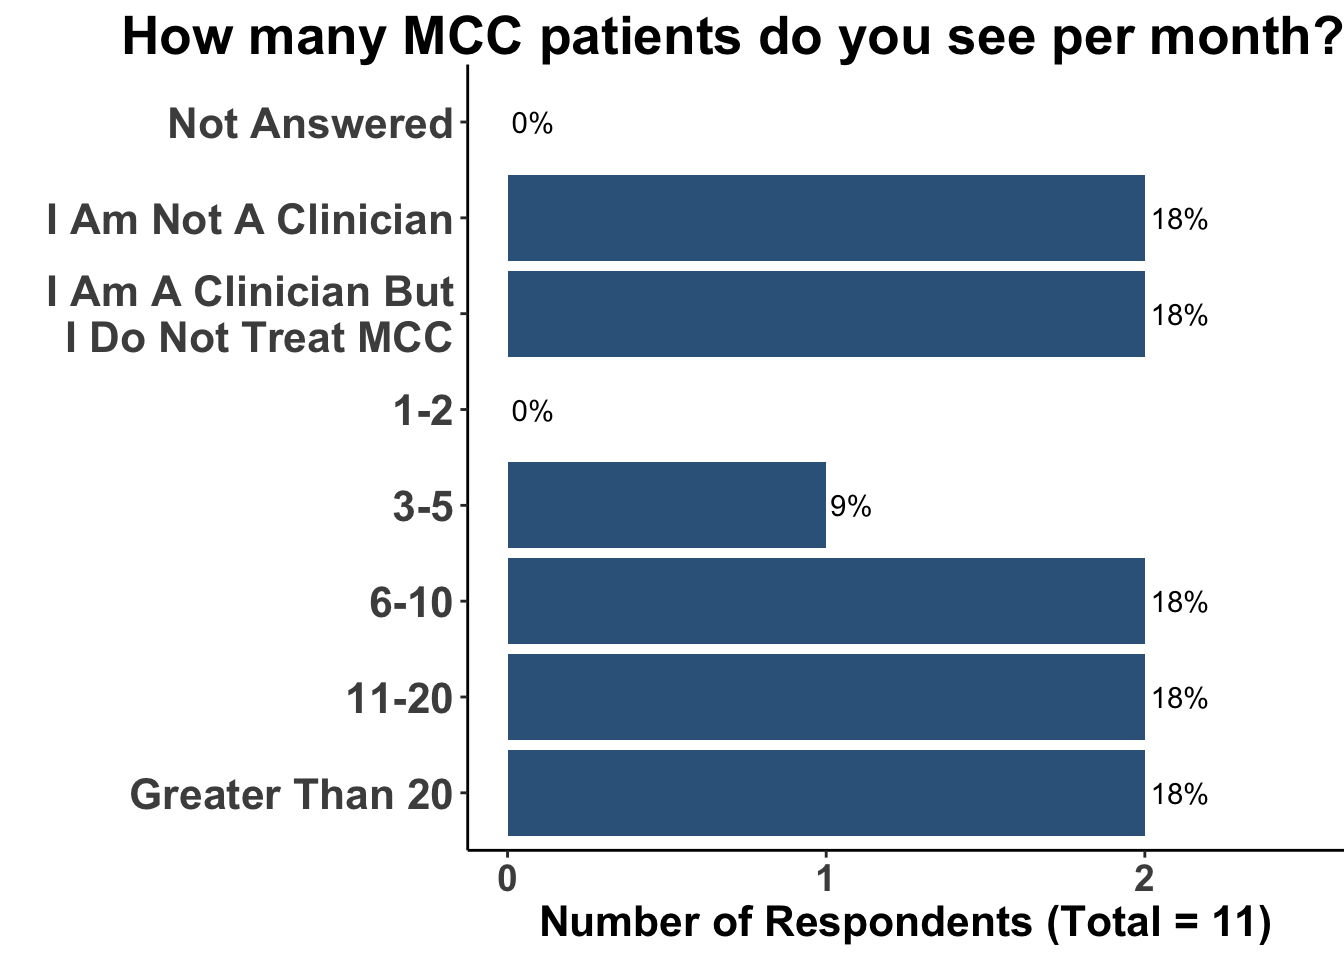
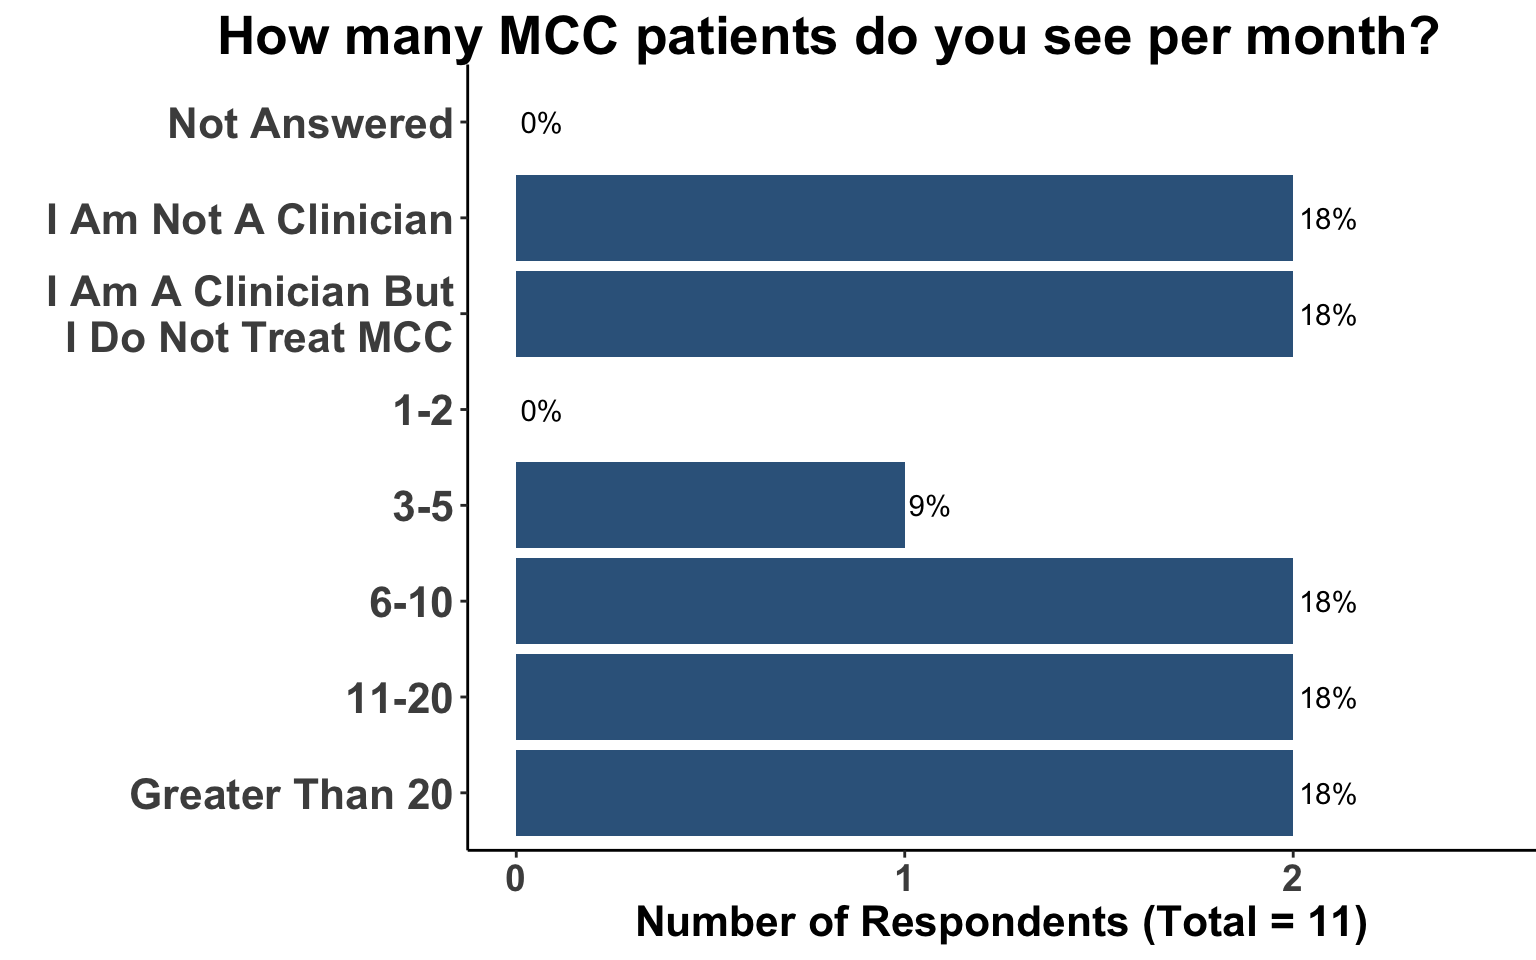
mcc experience next fix

diff --git a/docs/SoCO_Survey.html b/docs/SoCO_Survey.html
@@ -393,7 +393,7 @@ No matching items
 <div class="fade-in">
 <div id="listing-experience" class="quarto-listing quarto-listing-container-default">
 <div class="list quarto-listing-default">
-<div class="quarto-post image-right" data-index="0" data-listing-file-modified-sort="1744021653800" data-listing-reading-time-sort="1" data-listing-word-count-sort="47">
+<div class="quarto-post image-right" data-index="0" data-listing-file-modified-sort="1744022301976" data-listing-reading-time-sort="1" data-listing-word-count-sort="51">
 <div class="thumbnail">
 <p><a href="./pre_jc_survey/experience/index.html" class="no-external"></a></p><a href="./pre_jc_survey/experience/index.html" class="no-external">
 <p class="card-img-top"><img src="pre_jc_survey/experience/index_files/figure-html/patient experience-1.png"  class="thumbnail-image card-img"/></p>
@@ -401,7 +401,7 @@ No matching items
 </div>
 <div class="body">
 <h3 class="no-anchor listing-title">
-<a href="./pre_jc_survey/experience/index.html" class="no-external">Experience</a>
+<a href="./pre_jc_survey/experience/index.html" class="no-external">Experience With Merkel Cell Carcinoma</a>
 </h3>
 <div class="listing-subtitle">
 <a href="./pre_jc_survey/experience/index.html" class="no-external"></a>
@@ -455,7 +455,7 @@ No matching items
 <div class="fade-in">
 <div id="listing-mgmt_case_1" class="quarto-listing quarto-listing-container-default">
 <div class="list quarto-listing-default">
-<div class="quarto-post image-right" data-index="0" data-listing-file-modified-sort="1744021503157" data-listing-reading-time-sort="1" data-listing-word-count-sort="44">
+<div class="quarto-post image-right" data-index="0" data-listing-file-modified-sort="1744022211297" data-listing-reading-time-sort="1" data-listing-word-count-sort="50">
 <div class="thumbnail">
 <p><a href="./pre_jc_survey/case_1/index.html" class="no-external"></a></p><a href="./pre_jc_survey/case_1/index.html" class="no-external">
 <p class="card-img-top"><img src="pre_jc_survey/case_1/index_files/figure-html/patient experience-1.png"  class="thumbnail-image card-img"/></p>

diff --git a/docs/pre_jc_survey/experience/index.html b/docs/pre_jc_survey/experience/index.html
@@ -7,7 +7,7 @@
 <meta name="viewport" content="width=device-width, initial-scale=1.0, user-scalable=yes">
 
 
-<title>Experience – Society of Cutaneous Oncology Journal Club</title>
+<title>Experience With Merkel Cell Carcinoma – Society of Cutaneous Oncology Journal Club</title>
 <style>
 code{white-space: pre-wrap;}
 span.smallcaps{font-variant: small-caps;}
@@ -142,7 +142,7 @@ ul.task-list li input[type="checkbox"] {
 
 <header id="title-block-header" class="quarto-title-block default">
 <div class="quarto-title">
-<h1 class="title">Experience</h1>
+<h1 class="title">Experience With Merkel Cell Carcinoma</h1>
 </div>
 
 
@@ -163,13 +163,13 @@ ul.task-list li input[type="checkbox"] {
 <div class="cell-output-display">
 <div class="quarto-figure quarto-figure-center">
 <figure class="figure">
-<p><img src="index_files/figure-html/patient experience-1.png" class="img-fluid quarto-figure quarto-figure-center figure-img" width="672"></p>
+<p><img src="index_files/figure-html/patient experience-1.png" class="img-fluid quarto-figure quarto-figure-center figure-img" width="768"></p>
 </figure>
 </div>
 </div>
 </div>
 <div style="text-align: right; margin-top: 2rem;">
-<p><a href="../role/" class="btn btn-primary">← Previous</a> <a href="../ipi_nivo_rx_yn/" class="btn btn-primary">Next →</a></p>
+<p><a href="../role/" class="btn btn-primary">← Previous</a> <a href="../Ipi_nivo_rx_yn/" class="btn btn-primary">Next →</a></p>
 </div>
 
 

diff --git a/docs/pre_jc_survey/case_1/index.html b/docs/pre_jc_survey/case_1/index.html
@@ -159,11 +159,11 @@ ul.task-list li input[type="checkbox"] {
 </header>
 
 
-<div class="cell">
+<div class="cell" data-layout-align="center">
 <div class="cell-output-display">
-<div>
+<div class="quarto-figure quarto-figure-center">
 <figure class="figure">
-<p><img src="index_files/figure-html/patient experience-1.png" class="img-fluid figure-img" width="672"></p>
+<p><img src="index_files/figure-html/patient experience-1.png" class="img-fluid quarto-figure quarto-figure-center figure-img" width="1056"></p>
 </figure>
 </div>
 </div>

diff --git a/docs/pre_jc_survey/barriers/index.html b/docs/pre_jc_survey/barriers/index.html
@@ -159,11 +159,11 @@ ul.task-list li input[type="checkbox"] {
 </header>
 
 
-<div class="cell">
+<div class="cell" data-layout-align="center">
 <div class="cell-output-display">
-<div>
+<div class="quarto-figure quarto-figure-center">
 <figure class="figure">
-<p><img src="index_files/figure-html/patient experience-1.png" class="img-fluid figure-img" width="672"></p>
+<p><img src="index_files/figure-html/patient experience-1.png" class="img-fluid quarto-figure quarto-figure-center figure-img" width="768"></p>
 </figure>
 </div>
 </div>
